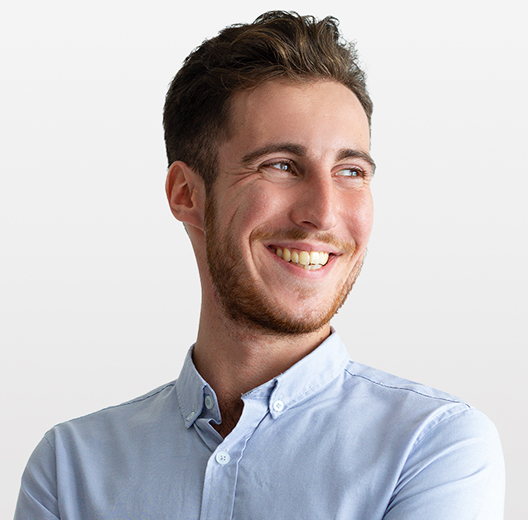
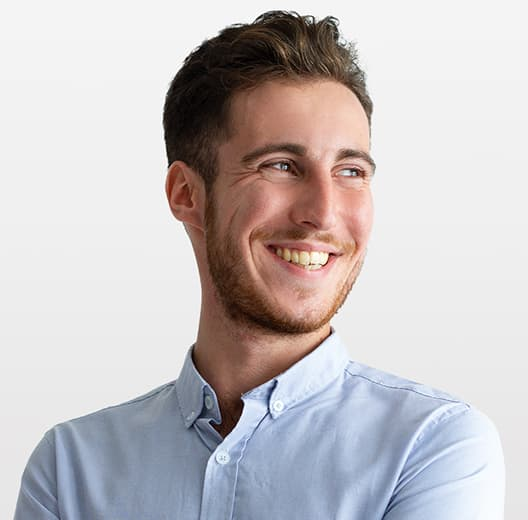
reduced weight of images

diff --git a/index.html b/index.html
@@ -10,22 +10,22 @@
 <body>
     <header>
         <nav>
-            <a href="http://127.0.0.1:5500/index.html">WebStudio</a>
+            <a href=".index.html">WebStudio</a>
             <ul>
                 <li>Studio</li>
                 <li>Portfolio</li>
                 <li>Contacts</li>
             </ul>
-            <ul>
-                <li><a href="mailto:info@devstudio.com">info@devstudio.com</a> </li>
-                <li><a href="tel:+110001111111"></a>+11 (000) 111-11-11</li>
-            </ul>
         </nav>
+        <ul>
+            <li><a href="mailto:info@devstudio.com">info@devstudio.com</a> </li>
+            <li><a href="tel:+110001111111"></a>+11 (000) 111-11-11</li>
+        </ul>
     </header>
     <main>
         <section>
             <h1>Effective Solutions for Your Business</h1>
-            <button>Order Service</button>
+            <button type="button">Order Service</button>
             <h2>Strategy</h2>
             <p>
                 Our goal is to identify the businessproblem to walk away with the perfect and creative solution.
@@ -77,7 +77,7 @@
     </main>
 
     <footer>
-        <a href="http://127.0.0.1:5500/index.html">WebStudio</a>
+        <a href=".index.html">WebStudio</a>
         <p>Increase the flow of customers and sales for your business with digital marketing & growth solutions.</p>
     </footer>
 </body>
